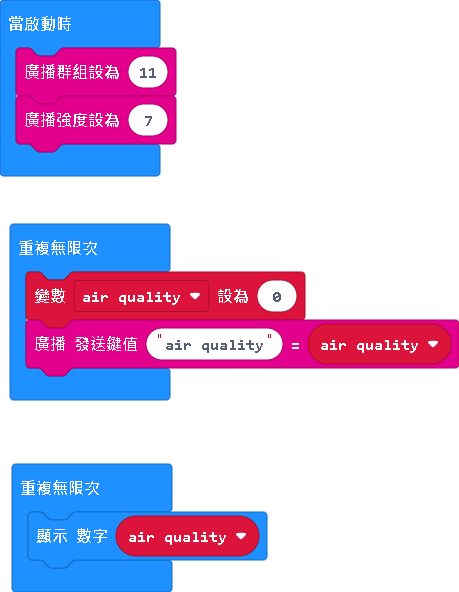
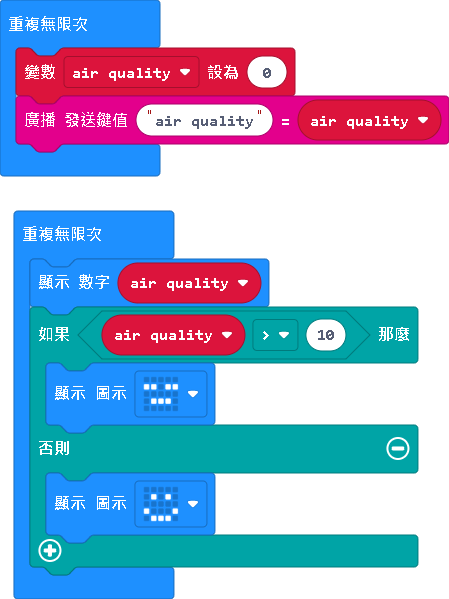
更新 main.blocks, main.ts

diff --git a/main.ts b/main.ts
@@ -1,10 +1,13 @@
 let air_quality = 0
-radio.setGroup(11)
-radio.setTransmitPower(7)
 basic.forever(function () {
     air_quality = 0
     radio.sendValue("air quality", air_quality)
 })
 basic.forever(function () {
     basic.showNumber(air_quality)
+    if (air_quality > 10) {
+        basic.showIcon(IconNames.Asleep)
+    } else {
+        basic.showIcon(IconNames.Happy)
+    }
 })
